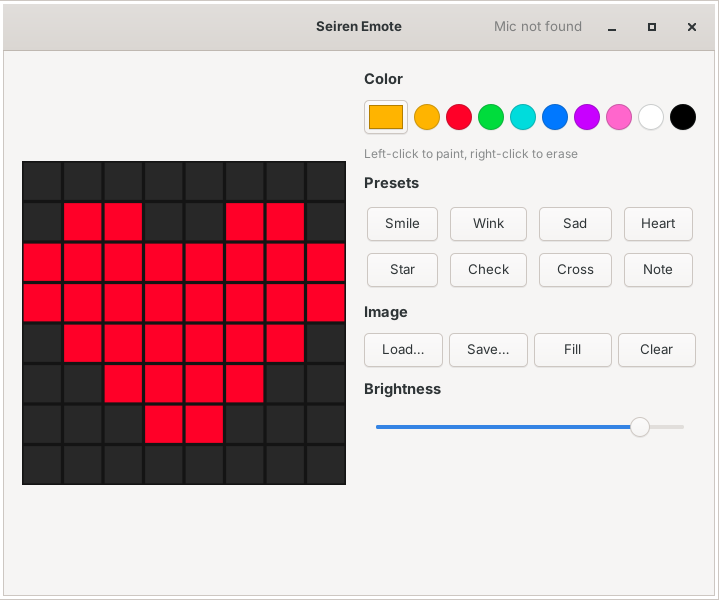
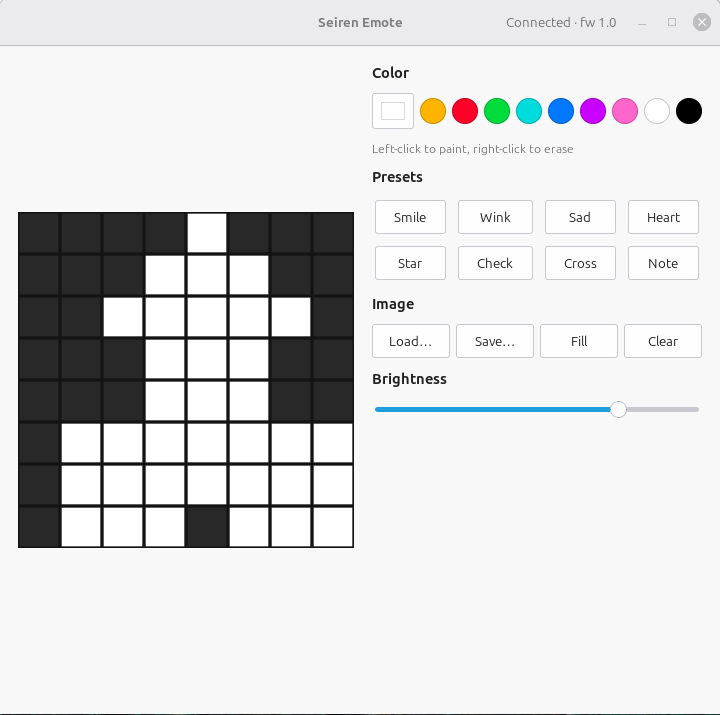
Use a real screenshot with the mic connected

Changed region(s): [[0.0, 0.0, 1.0, 1.0], [0.5202, 0.69, 0.9485, 0.72]]

diff --git a/README.md b/README.md
@@ -9,7 +9,7 @@
 
 Razer only supports the display through Synapse on Windows, and OpenRazer doesn't cover this mic. This is a free, open-source alternative that talks to the mic directly over USB. The installer supports Ubuntu, Debian, Fedora and Arch.
 
-![Seiren Emote Linux app drawing a red heart on the mic's 8x8 LED display](docs/screenshot.png)
+![Seiren Emote Linux app connected to the mic, with white pixel art drawn on the 8x8 LED display](docs/screenshot.png)
 
 > The microphone audio already works on Linux out of the box. This project only adds control of the LED display.
 
